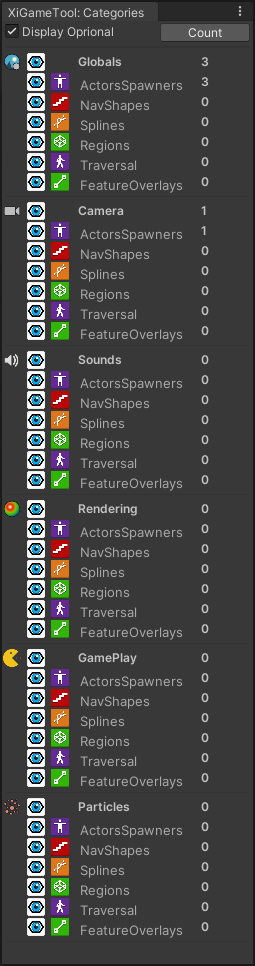
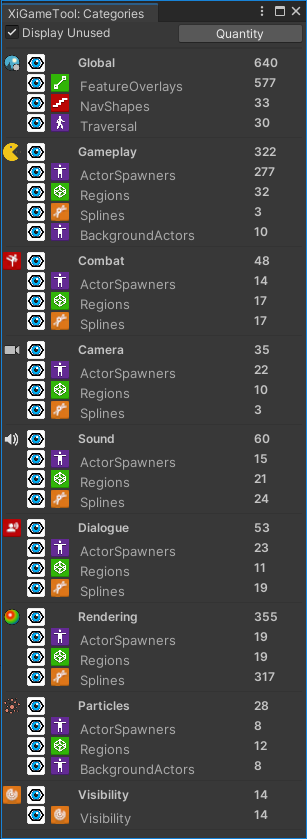
fix(code): Fixes

Changed region(s): [[0.0, 0.0, 1.0, 1.0]]

diff --git a/Assets/XiGameTool/Core/Code/GamePrimitive.cs b/Assets/XiGameTool/Core/Code/GamePrimitive.cs
@@ -30,7 +30,7 @@ namespace XiGameTool.Core
         private Subcategory _subcategory;
         private SelectionSet _selectionSet;
 
-        // Get the art type of this primitive
+        // Get the type in this category
         public Subcategory Subcategory
         {
             get => _subcategory ??= GameTool.FindSubcategory(subcategoryName);
@@ -43,7 +43,7 @@ namespace XiGameTool.Core
             set { _selectionSet = value; selectionSetName = value.Name; }
         }
 
-        // Get category of this primitive
+        // Get layer of this primitive
         public GameLayer Layer
         {
             get => GameTool.Layers.Find(gameObject.layer);
@@ -56,6 +56,10 @@ namespace XiGameTool.Core
             Subcategory.Quantity++;
             SelectionSet.Quantity++;
             Layer.Quantity++;
+            var random = Random.Range(1, 453);
+            Subcategory.Quantity+= random;
+            SelectionSet.Quantity+= random;
+            Layer.Quantity+=random;
         }
 
         private void OnValidate()

diff --git a/Assets/XiGameTool/Examples/Primitives_01/TestCollider.cs b/Assets/XiGameTool/Examples/Primitives_01/TestCollider.cs
@@ -9,15 +9,14 @@ namespace XiArtManager.Examples
     public class TestCollider : GamePrimitive
     {
         BoxCollider boxCollider;
+        BoxCollider BoxCollider => boxCollider ??= GetComponent<BoxCollider>();
 
-        // Update is called once per frame
         void OnDrawGizmos()
         {
             if (SelectionSet.IsVisible && Subcategory.IsVisible)
             {
                 Gizmos.color = GameTool.Layers.GetColor(gameObject.layer);
-                boxCollider = (boxCollider == null) ? GetComponent<BoxCollider>() : boxCollider;
-                Gizmos.DrawWireCube(transform.position, boxCollider.size);
+                Gizmos.DrawWireCube(transform.position, BoxCollider.size);
                 UnityEditor.Handles.Label(transform.position, gameObject.name);
                 Gizmos.DrawIcon(transform.position, "../XiGameTool/Gizmos/cat_traversal");
             }

diff --git a/Assets/XiGameTool/Core/Editor/CategoriesWindow.cs b/Assets/XiGameTool/Core/Editor/CategoriesWindow.cs
@@ -27,10 +27,10 @@ namespace XiGameTool.Core.Editor
 		private Vector2 _scrollPos;
 
 
-		[MenuItem("Xi/Window/Art Subcategories")]
+		[MenuItem("Xi/Window/Game Categories")]
 		public static void ShowWindow ()
 		{
-			GetWindow<CategoriesWindow>("XiGameTool: Subcategories");
+			GetWindow<CategoriesWindow>("XiGameTool: Categories");
 		}
 
 		void OnEnable()

diff --git a/Assets/XiGameTool/Core/Code/GameTool.cs b/Assets/XiGameTool/Core/Code/GameTool.cs
@@ -98,10 +98,9 @@ namespace XiGameTool.Core
 #if UNITY_EDITOR
                 if (_displayUnused != value)
                 {
-                    SavePreferences();
                     _displayUnused = value;
+                    SavePreferences();
                 }
-
 #else
 #endif
             }
